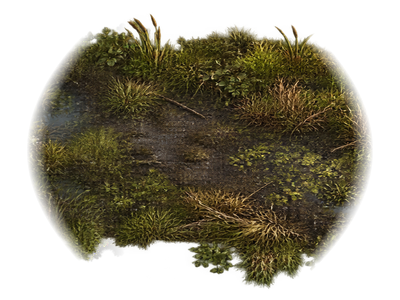
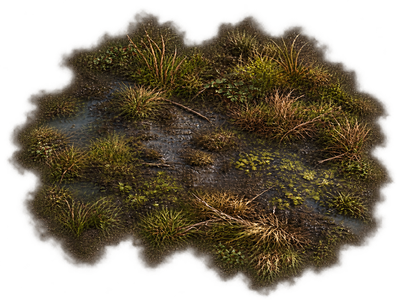
Repaint water and marsh pools and channels with regional shores

diff --git a/src/art/registry.ts b/src/art/registry.ts
@@ -46,7 +46,7 @@ export interface TextureSpec {
 // The query is intentional. Painted files are stable public URLs rather than
 // Vite-hashed imports, so a version here guarantees that a deployed art pass
 // cannot be hidden behind an older service-worker entry.
-export const PAINTED_MANIFEST_URL = 'assets/painted/manifest.json?v=regional-environment-37';
+export const PAINTED_MANIFEST_URL = 'assets/painted/manifest.json?v=regional-environment-38';
 
 function specs(drawn: ReadonlySet<string> = new Set()): TextureSpec[] {
   const out: TextureSpec[] = [];
